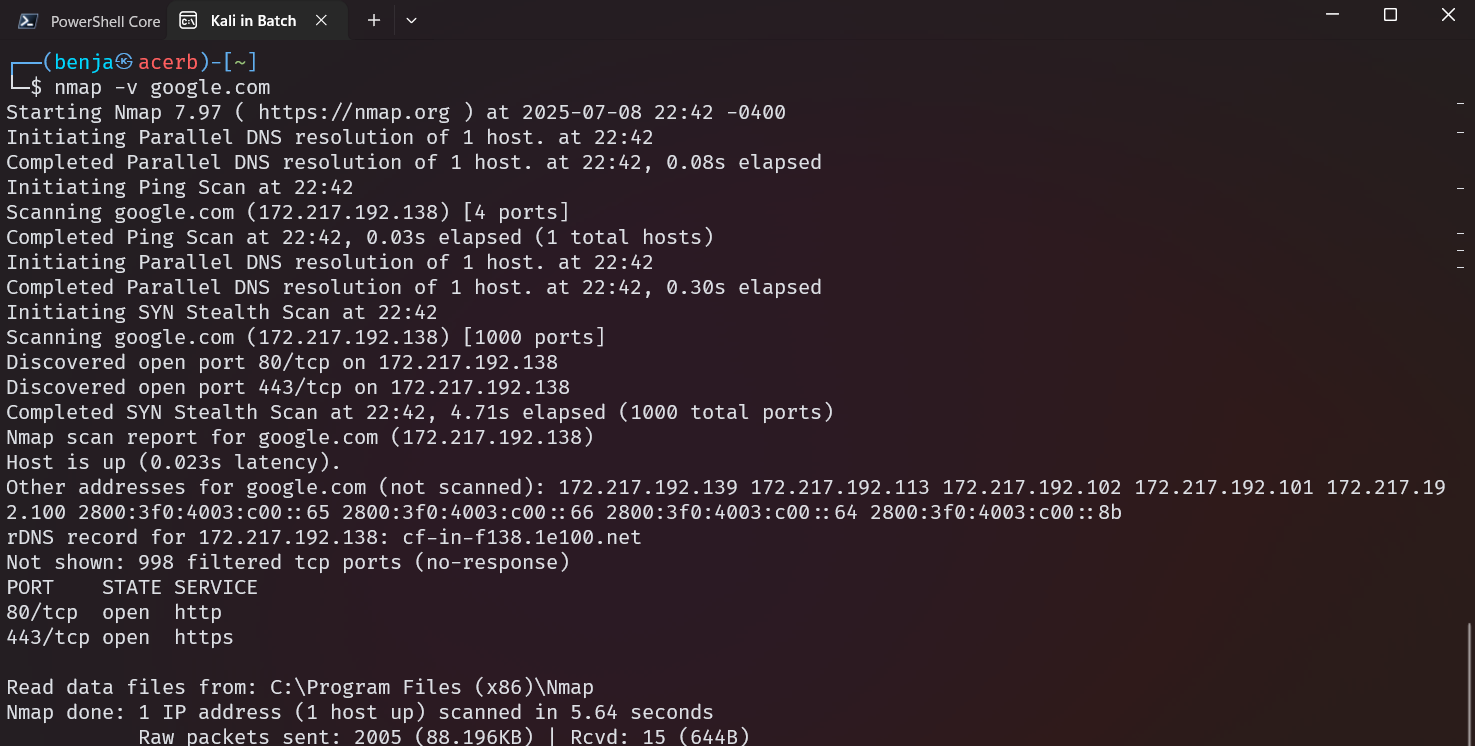
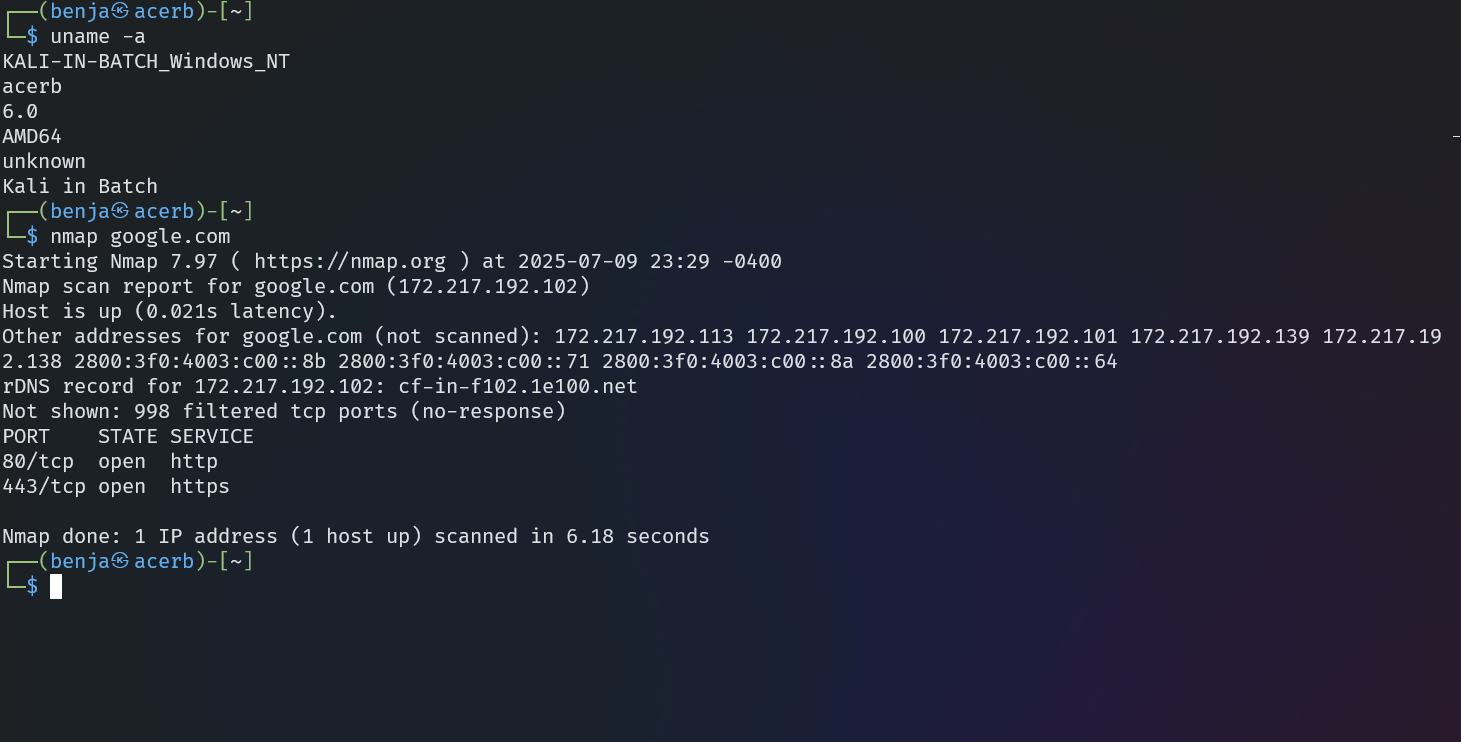
Kali in Batch 6.0

diff --git a/README.md b/README.md
@@ -2,12 +2,9 @@
 
 Kali in Batch is a batch script-based environment that runs a bash shell with many Kali Linux utilities.
 
-![image of a terminal nmap scan](./assets/image.png)
-![image of a terminal neofetch](./assets/image2.png)
-
 ## Installation
 
-* Download `kali_in_batch.zip` or `kali_in_batch.tar.gz` from the [latest release](https://github.com/Kali-in-Batch/kali-in-batch/releases/latest).
+* Download a source code archive from the [latest release](https://github.com/Kali-in-Batch/kali-in-batch/releases/latest).
 * Run `setup.bat` to download and set up required binaries and dependencies.
 * After setup, run `kali_in_batch.bat` to start the Kali in Batch environment.
 
@@ -17,27 +14,31 @@ Kali in Batch is a batch script-based environment that runs a bash shell with ma
 * Comes with Kali Linux utilities you would expect, which are the following:
   * Netcat
   * Nmap
+  * Whois
   * Usable shell scripting environment
 * Has a simple package manager, which has packages like [neofetch](https://github.com/dylanaraps/neofetch)
   * You may invoke this package manager by running the `pkg` command.
   * Note: It only has packages written in bash.
 
-## Requirements
-
-You must enable developer mode for symlink creation to work.
-
 ## Usage
 
 1. Run `setup.bat` to install and configure the environment.
-2. Run `kali_in_batch.bat` to launch the Kali in Batch shell.
+2. Run `src\kali_in_batch.bat` to launch the Kali in Batch shell.
 3. During the first run, follow the prompts to assign a drive letter and complete setup.
 4. Use the preinstall shell commands:
    * `help` - Display available commands.
    * `done` - Finish setup and boot into Kali in Batch.
    * `wipe` - Wipe the Kali root filesystem.
-   * `add-bashrc` - Add a default `.bashrc` file.
+   * `add-kibenv` - Add the `.kibenv` file.
+   * `add-bashrc` - Add the default `.bashrc` file.
    * `edit-bashrc` - Edit the `.bashrc` file.
 5. Once setup is complete, you can now enjoy the bash shell.
+6. You can run `update-kibenv` in the bash shell to update the .kibenv file.
+
+## Preview
+
+![image of a terminal nmap scan with uname -a output above](./assets/image.png)
+![image of a terminal neofetch](./assets/image2.png)
 
 ## License
 
@@ -47,3 +48,7 @@ This project is licensed under the Apache-2.0 License. See the [LICENSE](LICENSE
 
 * [GitHub Repository](https://github.com/Kali-in-Batch/kali-in-batch)
 * [Latest Releases](https://github.com/Kali-in-Batch/kali-in-batch/releases/latest)
+
+---
+
+This project is not associated with Kali Linux.

diff --git a/SECURITY.md b/SECURITY.md
@@ -1,9 +1,9 @@
-Kali in Batch Security Policy
-=============================
+# Kali in Batch Security Policy
 
 ## Reporting a Security Issue
 
 If you believe you have found a vulnerability, follow these steps:
+
 - [Create a new vulnerability issue](https://github.com/Kali-in-Batch/kali-in-batch/issues/new?template=vulnerability.yml).
 - Fill out the template.
 - If you believe this should be kept confidential to you and maintainers, [submit a security advisory instead](https://github.com/Kali-in-Batch/kali-in-batch/security/advisories/new).
